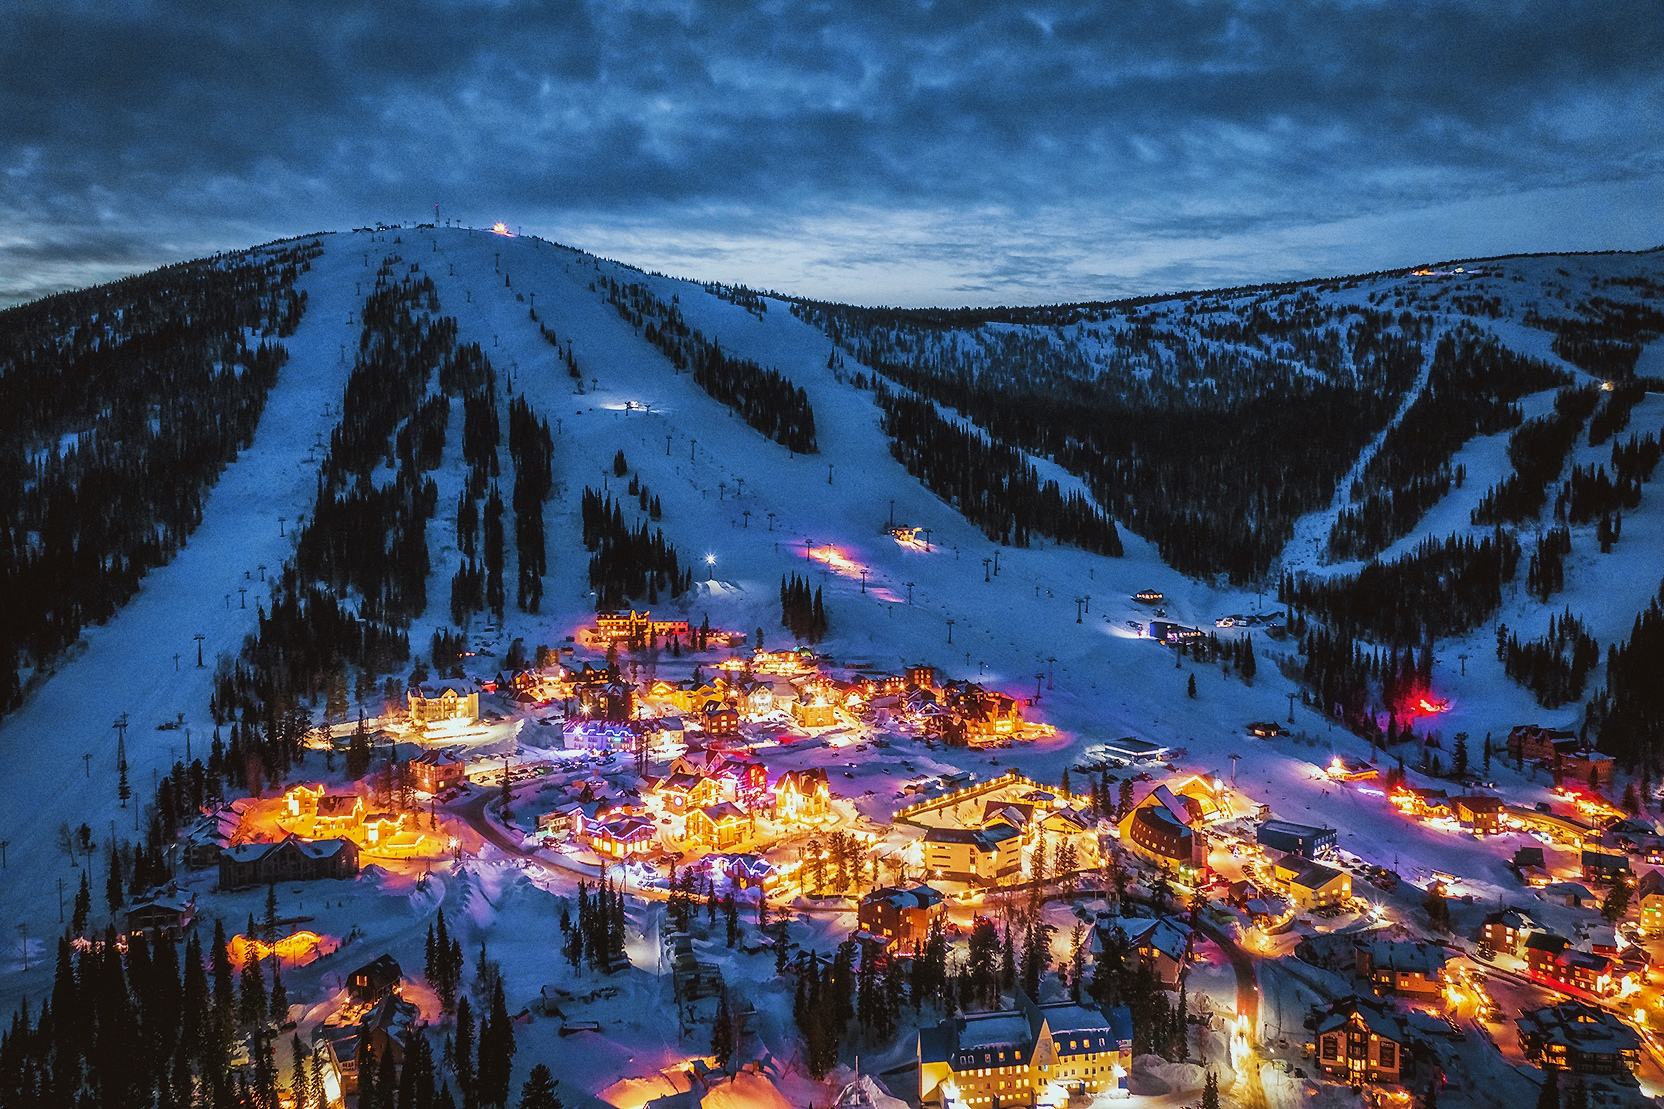
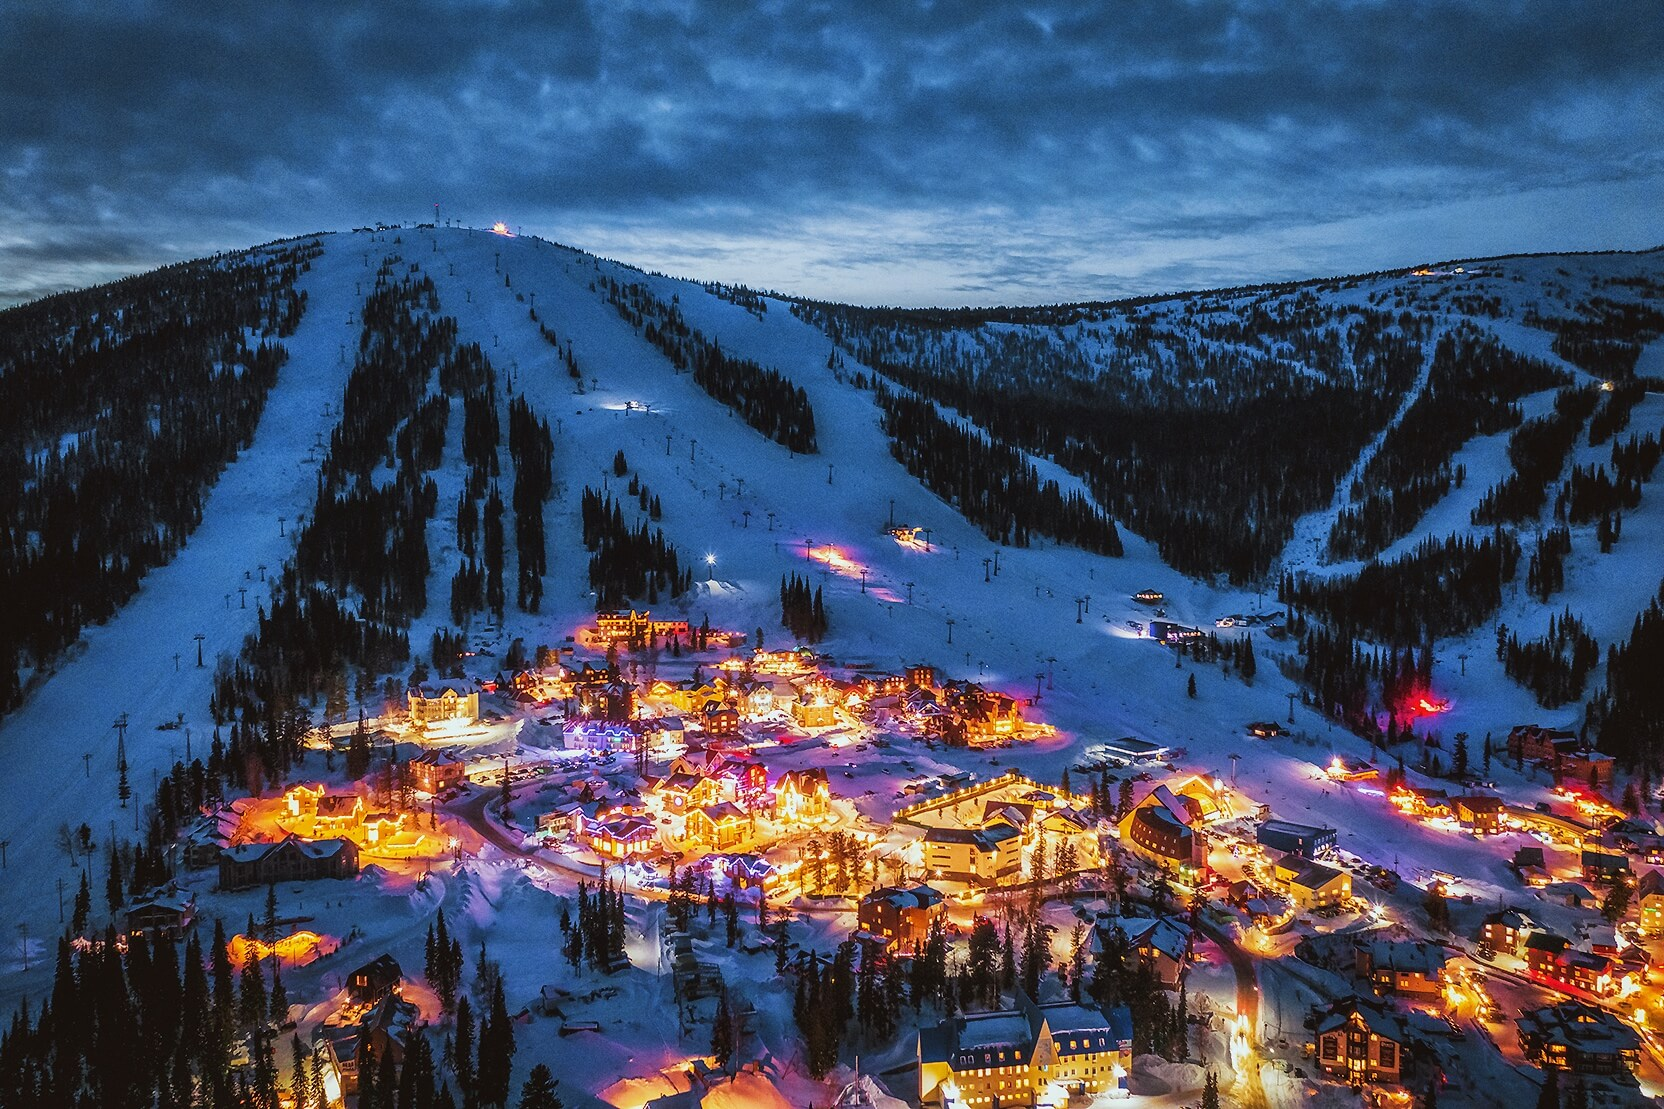
refactor: added prefixes and compressed img

diff --git a/blocks/profile/__form/profile__form.css b/blocks/profile/__form/profile__form.css
@@ -1,16 +1,27 @@
 .profile__form {
-    flex-grow: 1;
+    -webkit-box-flex: 1;
+        -ms-flex-positive: 1;
+            flex-grow: 1;
     margin: 0 0 0 30px;
+    display: -webkit-box;
+    display: -ms-flexbox;
     display: flex;
-    flex-direction: column;
-    align-items: center;
+    -webkit-box-orient: vertical;
+    -webkit-box-direction: normal;
+        -ms-flex-direction: column;
+            flex-direction: column;
+    -webkit-box-align: center;
+        -ms-flex-align: center;
+            align-items: center;
 }
 
 @media screen and (min-width: 320px) {
     .profile__form {
         margin-top: 22px;
         margin-left: 0;
-        align-items: center;
+        -webkit-box-align: center;
+            -ms-flex-align: center;
+                align-items: center;
     }
 
 }
@@ -19,6 +30,8 @@
     .profile__form {
         margin-top: 0px;
         margin-left: 30px;
-        align-items: flex-start;
+        -webkit-box-align: start;
+            -ms-flex-align: start;
+                align-items: flex-start;
     }
 }

diff --git a/blocks/popup/popup.css b/blocks/popup/popup.css
@@ -5,20 +5,22 @@
     z-index: 2;
     top: 0;
     left: 0;
-    background-color: rgba(0, 0, 0, 0.7);
-    opacity: 0;
+    background: rgba(0, 0, 0, 0.7);
     visibility: hidden;
-    /*transform: translateY(-50%) scale(0);*/
 }
 
+.popup__active {
+    visibility: visible;
+}
 
 /*Открытие попАп на чистом CSS
+.popup {
+    transform: translateY(-50%) scale(0);
+    transition: background .8s ease-in-out, transform .5s linear; 
+}
+
 .popup:target {
     opacity: 1;
     visibility: visible;
+    transform: translateY(0%) scale(1);
 }*/
-
-.popup__active {
-    opacity: 1;
-    visibility: visible;
-}

diff --git a/blocks/button/__add/buttod__add.css b/blocks/button/__add/buttod__add.css
@@ -1,14 +1,21 @@
 .button__add {
-    flex-shrink: 2;
+    -ms-flex-negative: 2;
+        flex-shrink: 2;
     padding: 0;
     width: 150px;
     height: 50px;
     background: none;
     border: 2px solid #fff;
     cursor: pointer;
+    display: -webkit-box;
+    display: -ms-flexbox;
     display: flex;
-    align-items: center;
-    justify-content: center;
+    -webkit-box-align: center;
+        -ms-flex-align: center;
+            align-items: center;
+    -webkit-box-pack: center;
+        -ms-flex-pack: center;
+            justify-content: center;
 }
 
 .button__add:hover {

diff --git a/blocks/popup/__content/popup__content.css b/blocks/popup/__content/popup__content.css
@@ -1,5 +1,6 @@
 .popup__content {
-    box-sizing: border-box;
+    -webkit-box-sizing: border-box;
+            box-sizing: border-box;
     width: 430px;
     height: 330px;
     margin: auto;
@@ -7,8 +8,13 @@
     background: #fff;
     color: #000;
     border-radius: 10px;
+    display: -webkit-box;
+    display: -ms-flexbox;
     display: flex;
-    flex-direction: column;
+    -webkit-box-orient: vertical;
+    -webkit-box-direction: normal;
+        -ms-flex-direction: column;
+            flex-direction: column;
     position: relative;
 }
 

diff --git a/blocks/button/__edit/buttod__edit.css b/blocks/button/__edit/buttod__edit.css
@@ -3,9 +3,15 @@
     border: 1px solid #fff;
     width: 24px;
     height: 24px;
+    display: -webkit-box;
+    display: -ms-flexbox;
     display: flex;
-    justify-content: center;
-    align-items: center;
+    -webkit-box-pack: center;
+        -ms-flex-pack: center;
+            justify-content: center;
+    -webkit-box-align: center;
+        -ms-flex-align: center;
+            align-items: center;
     position: absolute;
     right: -43px;
     bottom: 0;

diff --git a/blocks/element/__heading/element__heading.css b/blocks/element/__heading/element__heading.css
@@ -1,7 +1,13 @@
 .element__heading {
     margin: 0 auto;
     padding: 25px 15px 31px 21px;
+    display: -webkit-box;
+    display: -ms-flexbox;
     display: flex;
-    justify-content: space-between;
-    align-items: center;
+    -webkit-box-pack: justify;
+        -ms-flex-pack: justify;
+            justify-content: space-between;
+    -webkit-box-align: center;
+        -ms-flex-align: center;
+            align-items: center;
 }

diff --git a/blocks/popup/__container/popup__container.css b/blocks/popup/__container/popup__container.css
@@ -1,7 +1,13 @@
 .popup__container {
     width: 100%;
     height: 100%;
+    display: -webkit-box;
+    display: -ms-flexbox;
     display: flex;
-    justify-content: center;
-    align-items: center;
+    -webkit-box-pack: center;
+        -ms-flex-pack: center;
+            justify-content: center;
+    -webkit-box-align: center;
+        -ms-flex-align: center;
+            align-items: center;
 }

diff --git a/blocks/header/__logo/header__logo.css b/blocks/header/__logo/header__logo.css
@@ -1,0 +1,18 @@
+.header__logo {
+    width: 142px;
+    height: 33px;
+}
+
+@media screen and (min-width: 320px) {
+    .header__logo {
+        width: 103.74px;
+        height: 24.4px;
+    }
+}
+
+@media screen and (min-width: 692px) {
+    .header__logo {
+        width: 142px;
+        height: 33px;
+    }
+}

diff --git a/blocks/elements/elements.css b/blocks/elements/elements.css
@@ -1,8 +1,11 @@
 .elements {
     margin: 51px auto 0 auto;
+    display: -ms-grid;
     display: grid;
     grid-template-columns: repeat(auto-fit, 282px);
-    justify-content: center;
+    -webkit-box-pack: center;
+        -ms-flex-pack: center;
+            justify-content: center;
     gap: 20px 17px;
 }
 

diff --git a/blocks/element/__title/element__title.css b/blocks/element/__title/element__title.css
@@ -7,7 +7,8 @@
     line-height: 29px;
     letter-spacing: 0em;
     text-align: left;
-    text-overflow: ellipsis;
+    -o-text-overflow: ellipsis;
+       text-overflow: ellipsis;
     white-space: nowrap;
     overflow: hidden;
 }

diff --git a/blocks/root/root.css b/blocks/root/root.css
@@ -15,6 +15,7 @@
     margin: 0 auto;
     background-color: #000;
     color: #fff;
-    box-sizing: border-box;
+    -webkit-box-sizing: border-box;
+            box-sizing: border-box;
     position: relative;
 }
